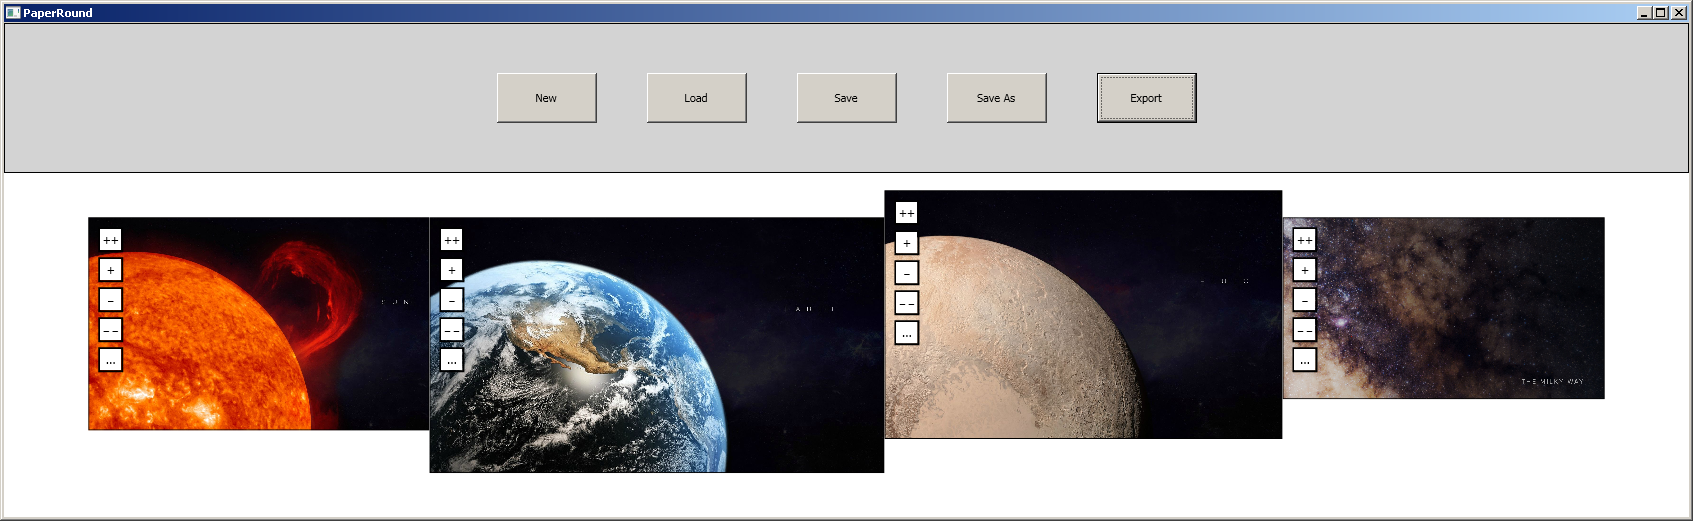
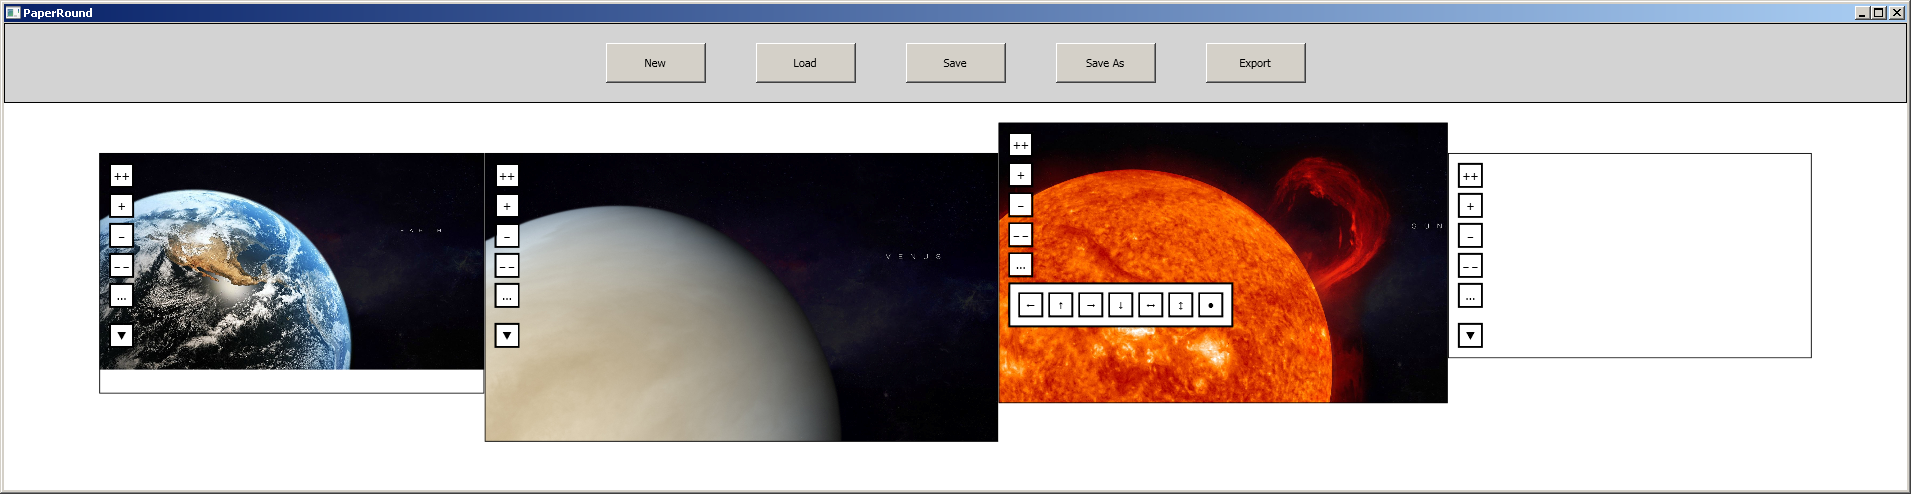
Documentation of new buttons.

diff --git a/README.md b/README.md
@@ -5,6 +5,8 @@ Program to generate multi-monitor wallpapers
 
 This is a simple program to stitch several images together to form a single large image suitable for use as a tiled wallpaper in multi-monitor setups.  The program shows a visual representation of your monitor layout (shown by the four images in the screenshot above).  Each of these monitors can have a wallpaper assigned with the "..." button.  The image can be dragged about, or zoomed in and out with the "+" and "-" buttons (faster zooming is done with the "++" and "--" buttons).
 
+The bottom button (a fat down arrow) opens an extended menu, with several snap options.  In order: left, top, right, bottom, width, height, reset.  The first four adjust the position of an image to be flush with the screen.  The next two adjust the size to fit in one dimension of the screen (you can't do both - PaperRound is explicitly designed to preserve image ratios).  The final one resets all modifications made to the image thus far.
+
 The "Save" and "Save As" buttons save the layout independent of monitor arrangement, so if you decide to shuffle your monitors about you can reload the saved `.wallpaper` file and all the images will be correct relative to their monitor even if the monitors have moved relative to each other.
 
 The "Export" button saves the current arrangement as a `.png` file.  This correctly handles wrapping and tiling - if your primary monitor is not the top-left monitor, the resulting wallpaper may appear sliced oddly to wrap around correctly, but (should) render correctly on the desktop.
